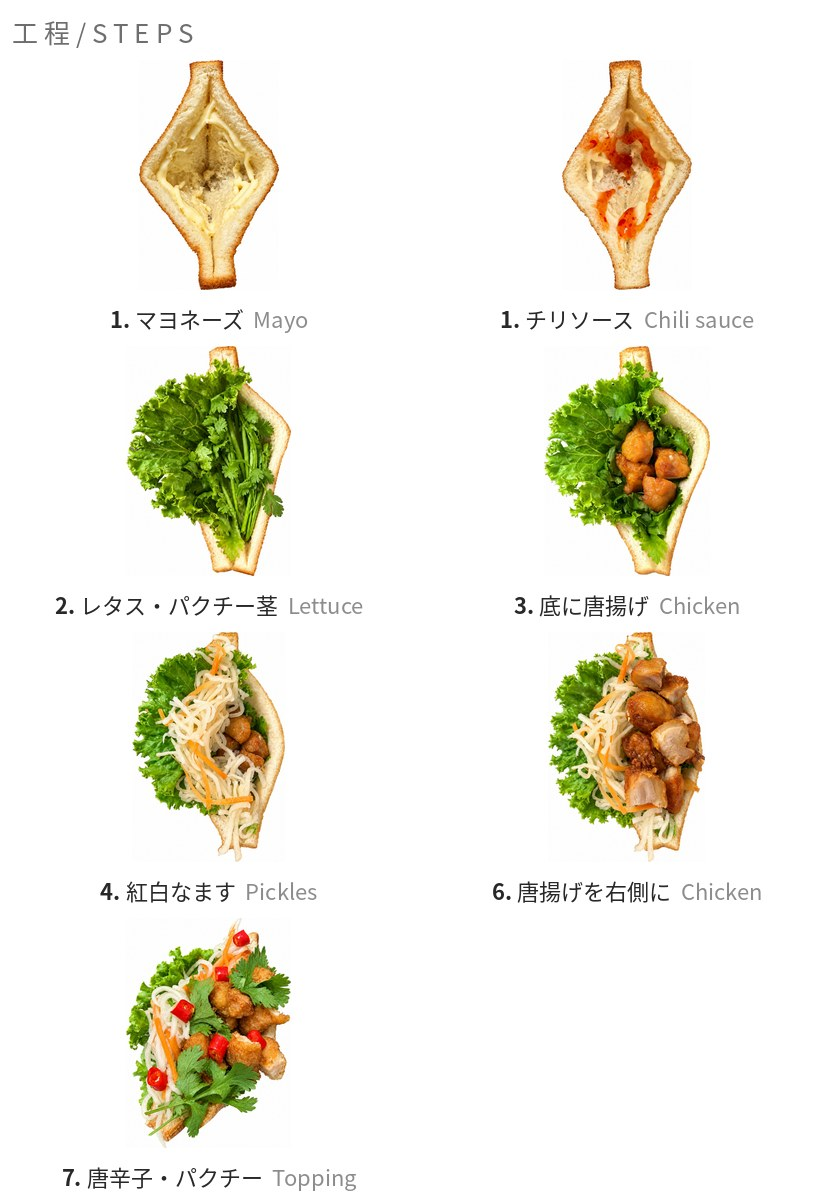
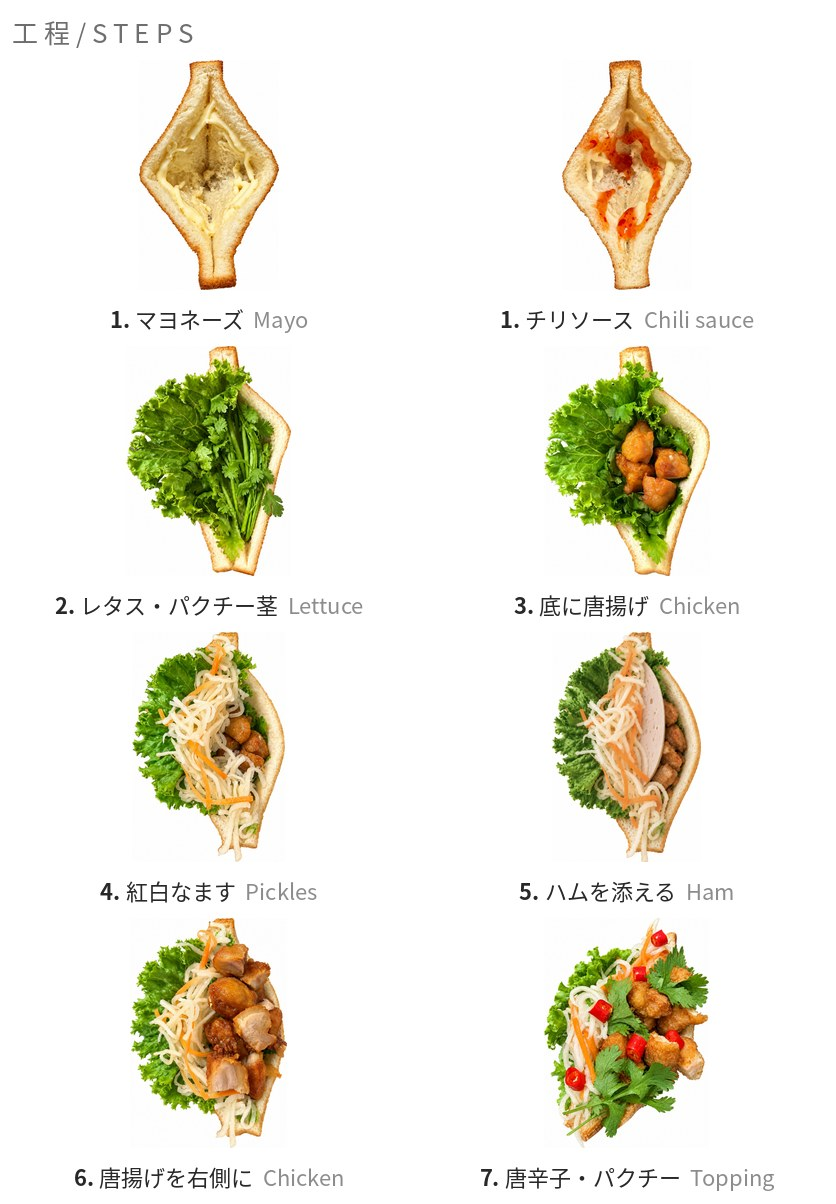
feat: チキンバインミーの工程写真にハムの工程を追加
Claude-Session: https://claude.ai/code/session_01Wp3vB6FRfwS6WS9ETNgW7z

diff --git a/age3-recipe-data.js b/age3-recipe-data.js
@@ -30,7 +30,7 @@
    ========================================================================== */
 
 var RECIPE_META = {
-  assetVersion: '20261015a',
+  assetVersion: '20261015b',
   brand: 'Age.3',
   title: 'Age.3 レシピ',
   sub: '揚げサンド スタンダードレシピ',
